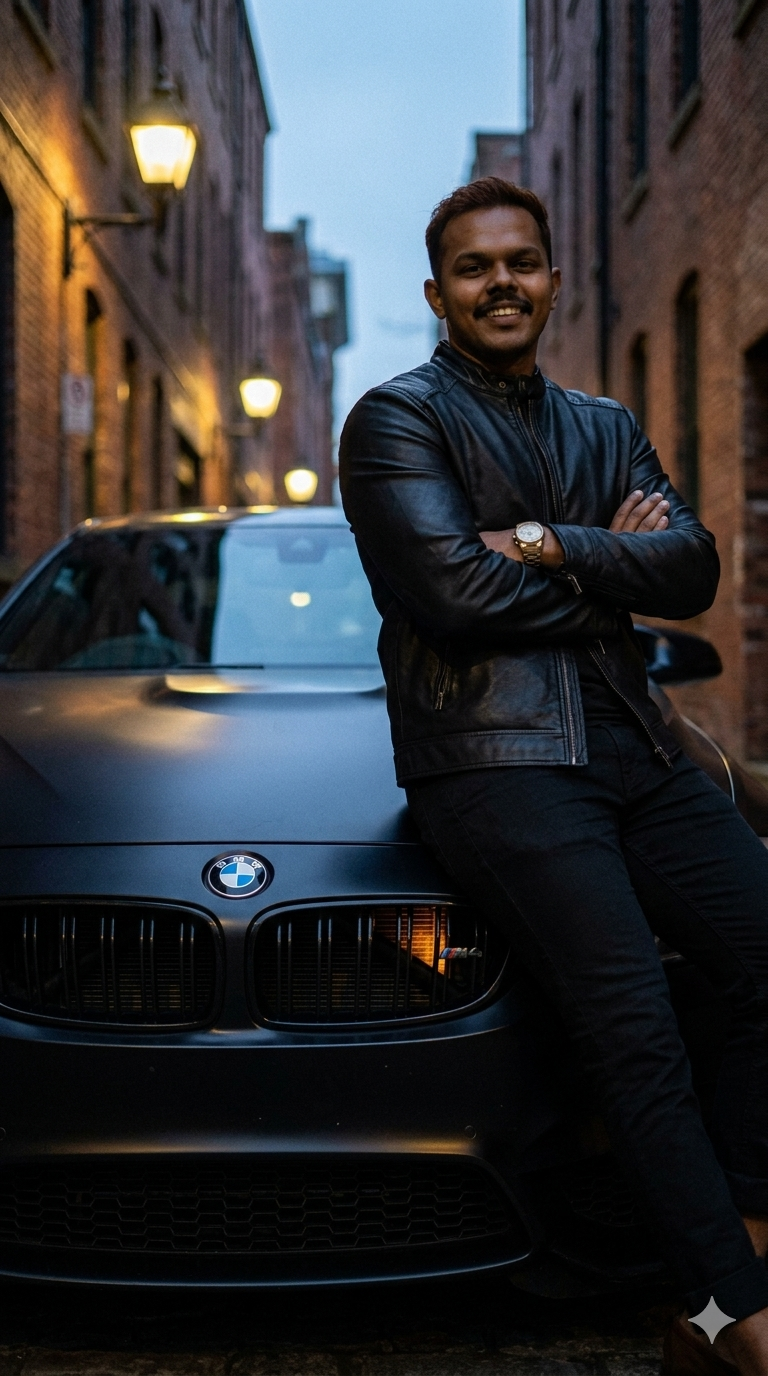
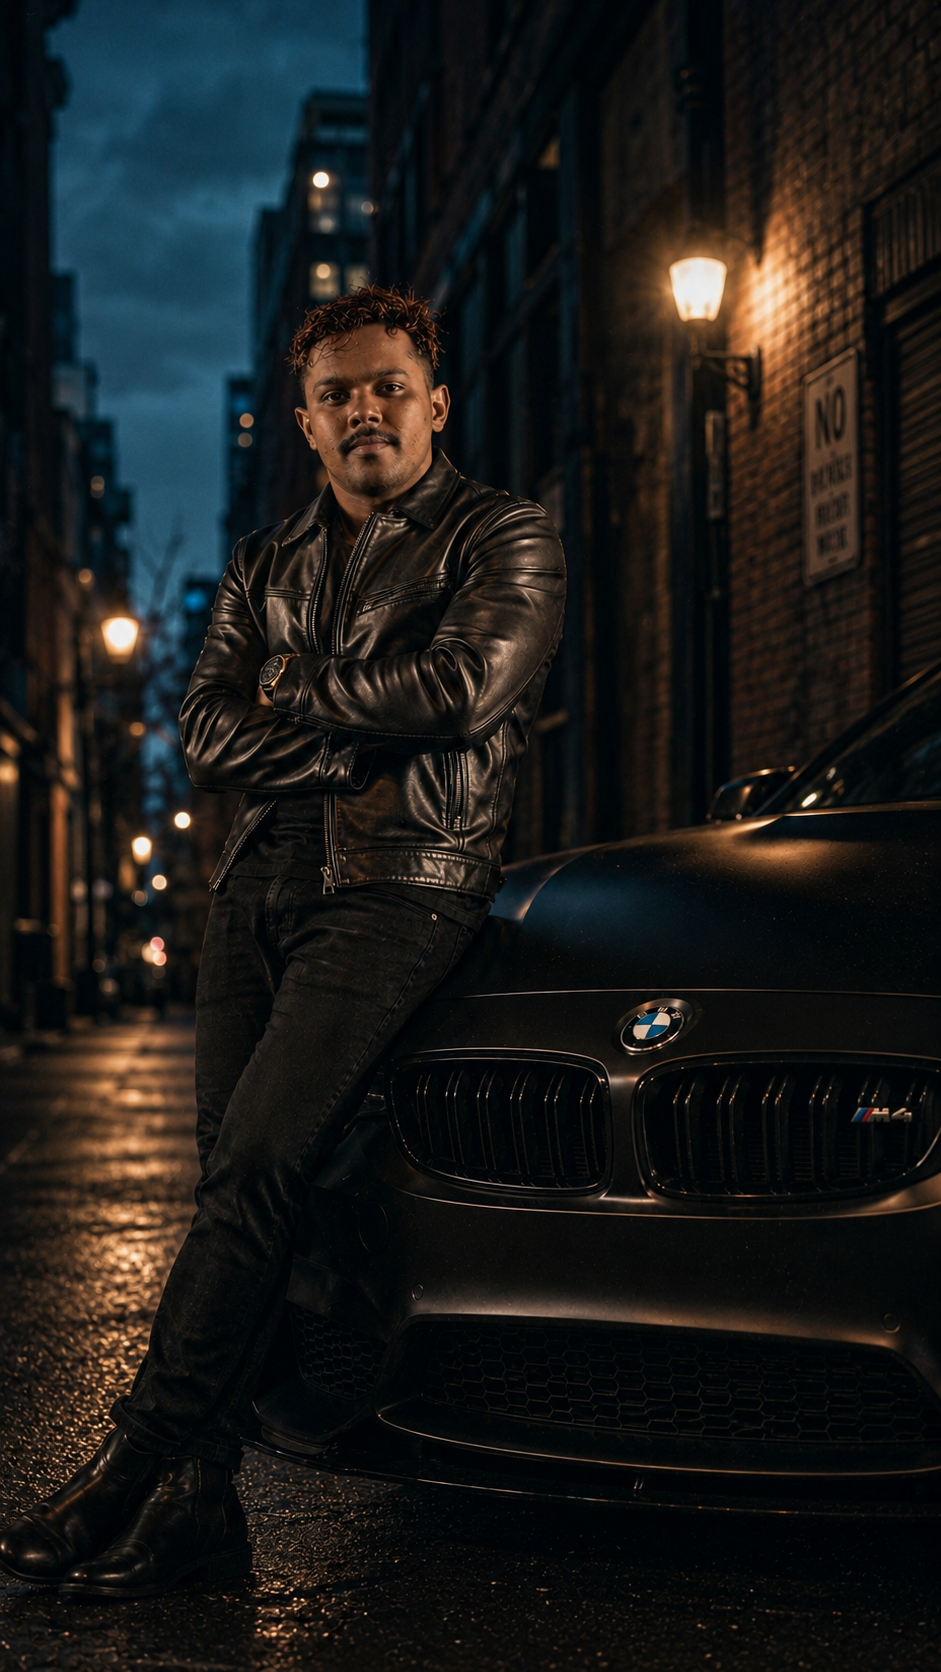
auto-commit for 23b6ab29-5fdc-4151-962f-2eef7bae05af

diff --git a/frontend/src/data/portfolio.js b/frontend/src/data/portfolio.js
@@ -1,5 +1,5 @@
 export const PROFILE = {
-  name: "Alan Jake Marvel",
+  name: "Alan Marvel",
   alias: "Jake The Vex",
   title: "Autonomous Systems Architect",
   brand: "ATLAS VEX",